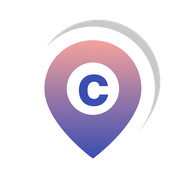
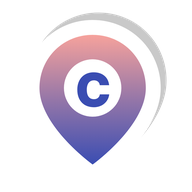
Icônes : épingle plus grande dans l'icône d'installation (zone de sécurité Android remplie)

Changed region(s): [[0.1875, 0.0625, 0.875, 0.875], [0.3125, 0.2812, 0.6562, 0.625], [0.2188, 0.1875, 0.25, 0.2188]]

diff --git a/public/sw.js b/public/sw.js
@@ -1,5 +1,5 @@
 // Cache l'interface et la carte pour tenir quand le réseau sature, et affiche les annonces urgentes (notifications).
-const SHELL = 'cortege-shell-v76', TILES = 'cortege-tiles-v1';
+const SHELL = 'cortege-shell-v77', TILES = 'cortege-tiles-v1';
 const ASSETS = ['/', '/style.css', '/theme.js', '/deeplink.js', '/vendor/fonts/anton-400.woff2', '/lang/langs.js', '/i18n.js', '/app.js', '/vendor/leaflet.js', '/vendor/leaflet.css', '/vendor/leaflet.markercluster.js', '/vendor/MarkerCluster.css',
   '/vendor/qrcode.js', '/vendor/protomaps-leaflet.js', '/map-style.js', '/vendor/fonts/inter-400.woff2', '/vendor/fonts/inter-700.woff2', '/favicon.png', '/brand/logo.png', '/brand/kofi.png', '/icon-192.png', '/manifest.webmanifest'];
 self.addEventListener('install', e => { e.waitUntil(caches.open(SHELL).then(c => c.addAll(ASSETS))); self.skipWaiting(); });
